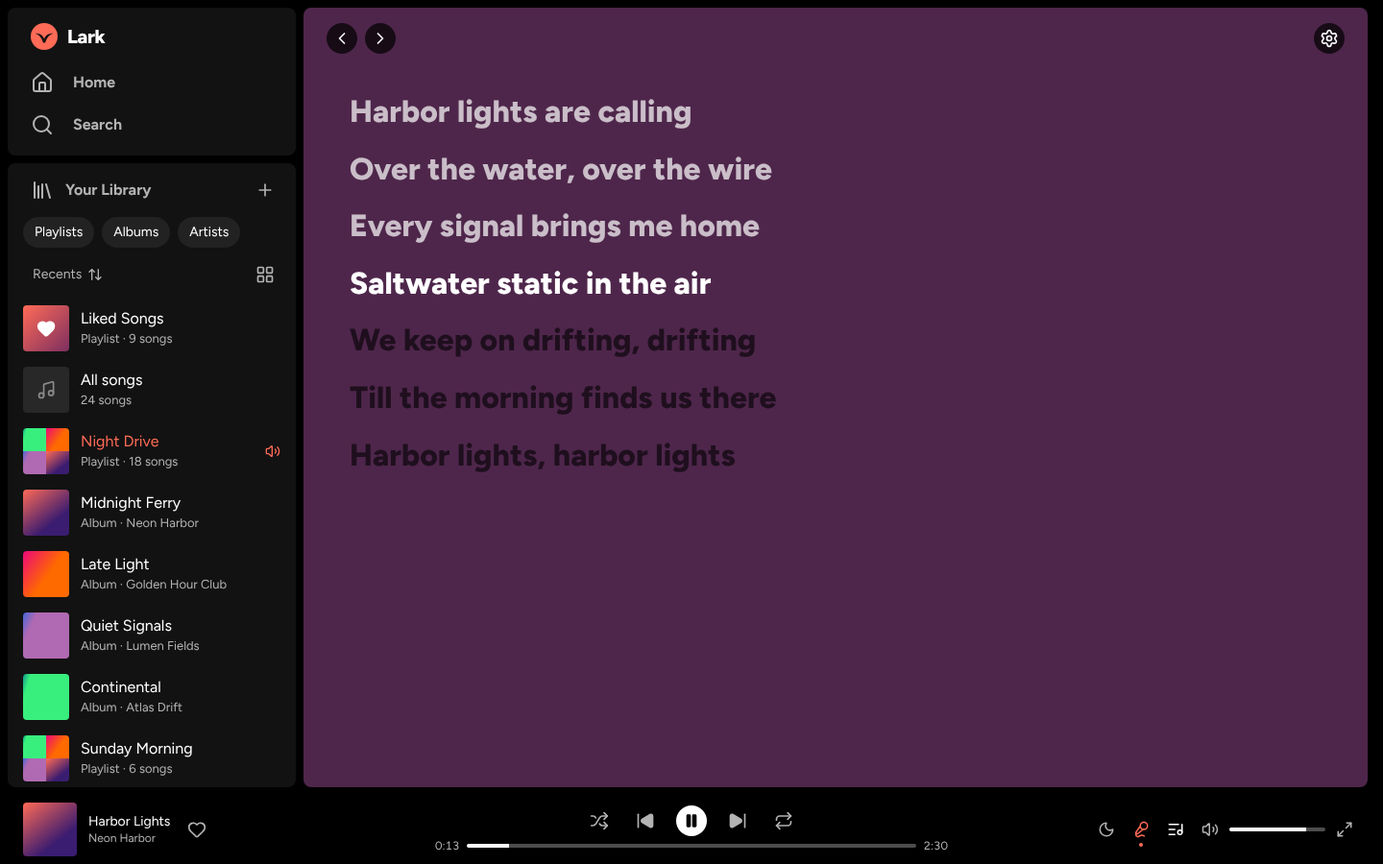
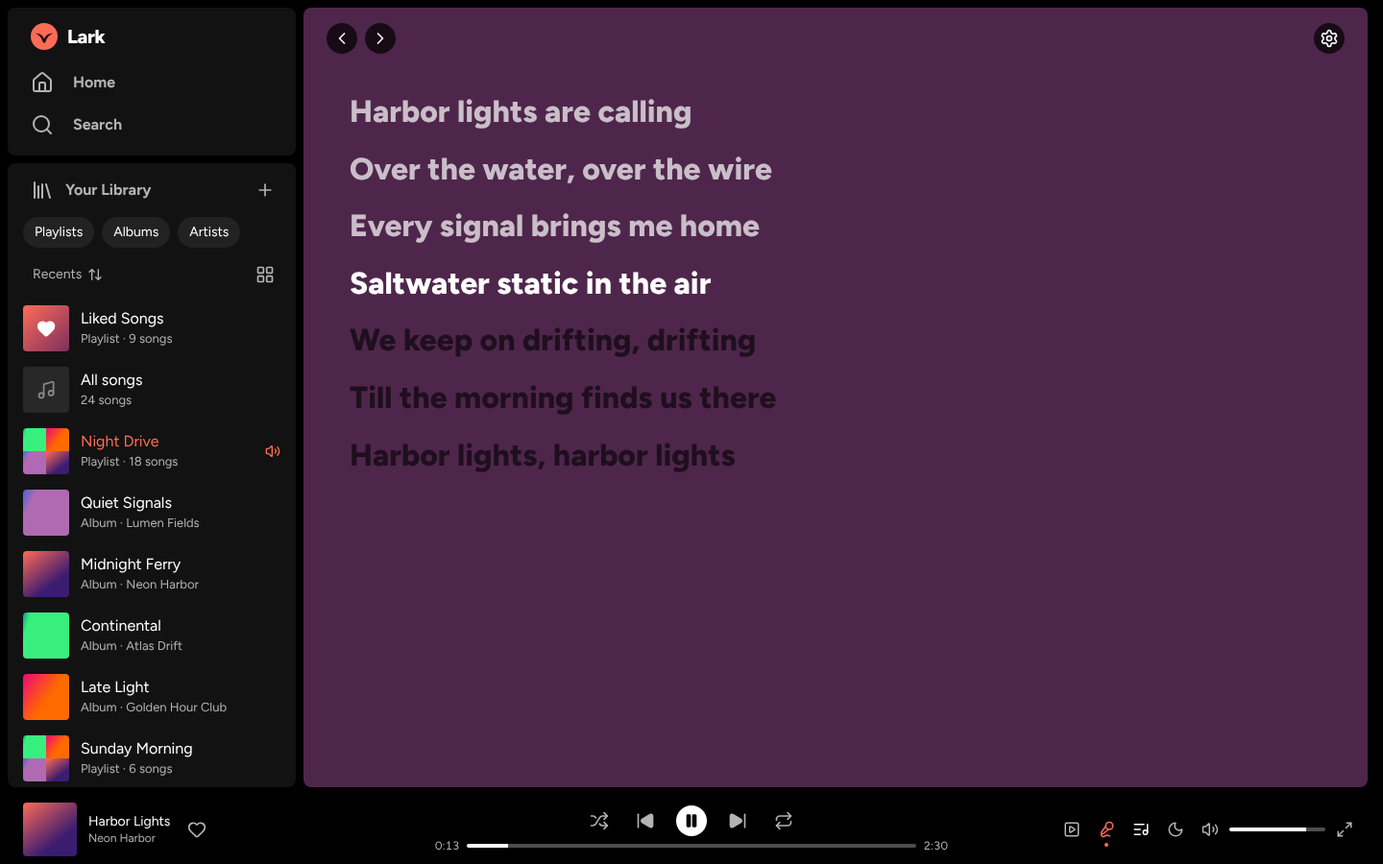
Spotify-style now-playing views; paste cover images
- Phone: full-screen player with the cover art filling the screen,
  small cover next to the title with a save (+/check) button, times
  under the seek bar, sleep timer and queue buttons, and a lyrics card
  peeking at the bottom.
- Computer: "Now playing view" panel on the right (context name, big
  cover, title/artist with save button, next in queue); it shares the
  right panel with the queue. The player-bar cover opens it.
- Edit dialogs: paste an image (Ctrl+V or "Paste image") to set a cover
  without the file picker; it is square-cropped from the centre.
- Tests for the panel and for pasting; screenshots updated.

Claude-Session: https://claude.ai/code/session_016covFTdUFWBo4vfXdR9J8w

Changed region(s): [[0.0, 0.56, 0.1562, 0.84], [0.8125, 0.9333, 0.8438, 0.9644]]

diff --git a/src/js/ui/nowplaying.js b/src/js/ui/nowplaying.js
@@ -16,10 +16,10 @@ const controlsHtml = () => `<div class="ctrls">${btn('shuffle', 'shuffle', 'Shuf
 
 export function playerBarHtml() {
   return `<footer class="pbar" id="pbar">
-    <div class="pb-left"><button class="pb-art" data-act="np-open" data-bind="cover" aria-label="Open now playing"></button>
+    <div class="pb-left"><button class="pb-art" data-act="npv" data-bind="cover" aria-label="Now playing view"></button>
       <div class="pb-meta"><a class="pb-t" data-bind="title"></a><div class="pb-a" data-bind="artist"></div></div>${btn('like-current', 'heart', 'Save to Liked Songs', 'like', 'icon-btn like')}</div>
     <div class="pb-center">${controlsHtml()}${seekHtml()}</div>
-    <div class="pb-right">${btn('sleep-menu', 'moon', 'Sleep timer', 'sleep')}${btn('lyrics', 'mic-vocal', 'Lyrics', 'lyrics-btn')}${btn('queue', 'list-music', 'Queue', 'queue-btn')}
+    <div class="pb-right">${btn('npv', 'square-play', 'Now playing view', 'npv-btn')}${btn('lyrics', 'mic-vocal', 'Lyrics', 'lyrics-btn')}${btn('queue', 'list-music', 'Queue', 'queue-btn')}${btn('sleep-menu', 'moon', 'Sleep timer', 'sleep')}
       ${btn('mute', 'volume-2', 'Mute', 'mute')}<input type="range" class="range vol" data-bind="vol" min="0" max="100" aria-label="Volume">${btn('np-open', 'maximize-2', 'Full screen')}</div>
   </footer>
   <div class="mini" id="mini" hidden><div class="mini-in"><div class="mini-art" data-bind="cover"></div>
@@ -42,6 +42,8 @@ function updateTrack() {
   each('artist', (el) => {
     el.innerHTML = !s ? '' : el.closest('.mini') ? esc(store.artistOf(s)) : `<a href="#/artist/${encodeURIComponent(store.artistKey(s.artist))}">${esc(store.artistOf(s))}</a>`;
   });
+  each('np-bg', (el) => { el.innerHTML = s?.coverId ? `<img src="${store.coverUrl(s.coverId)}" alt="">` : ''; });
+  each('np-lyrics', (el) => { const text = lyricsPreview(s); el.hidden = !text; el.querySelector('.lc-lines').textContent = text; });
   const mini = $('#mini');
   if (mini) mini.hidden = !s;
   document.body.classList.toggle('has-song', !!s);
@@ -54,6 +56,18 @@ function updateTrack() {
 export function updateLike() {
   const on = !!engine.song && store.isLiked(engine.song.id);
   each('like', (el) => { el.classList.toggle('on', on); el.setAttribute('aria-label', on ? 'Remove from Liked Songs' : 'Save to Liked Songs'); });
+  each('save', (el) => {
+    el.innerHTML = ic(on ? 'circle-check' : 'circle-plus');
+    el.classList.toggle('saved', on);
+    el.setAttribute('aria-label', on ? 'Remove from Liked Songs' : 'Save to Liked Songs');
+    el.title = el.getAttribute('aria-label');
+  });
+}
+/** First lines of a song's lyrics, for the lyrics card in the full-screen player. */
+function lyricsPreview(s) {
+  if (!s?.lyrics?.trim()) return '';
+  const lines = isSynced(s.lyrics) ? parseLrc(s.lyrics).map((l) => l.text) : s.lyrics.split(/\r?\n/);
+  return lines.map((l) => l.trim()).filter(Boolean).slice(0, 2).join('\n');
 }
 function updatePlay() {
   const playing = !!engine.song && !engine.paused;
@@ -135,7 +149,9 @@ Object.assign(acts, {
   mute: () => { engine.setMuted(!engine.muted); saveVolume(); },
   'np-open': () => engine.song && openNowPlaying(),
   'np-close': () => popOverlay(),
-  queue: () => (isMobile() || $('.np') ? openSheet('queue') : toggleRight()),
+  npv: () => (isMobile() ? engine.song && openNowPlaying() : setPanel(panel === 'np' && !$('#right').hidden ? '' : 'np')),
+  'panel-close': () => setPanel(''),
+  queue: () => (isMobile() || $('.np') ? openSheet('queue') : setPanel(panel === 'queue' && !$('#right').hidden ? '' : 'queue')),
   lyrics: () => (isMobile() || $('.np') ? openSheet('lyrics') : go(location.hash === '#/lyrics' ? '#/' : '#/lyrics')),
   'sleep-menu': (el) => openMenu([
     ...(P.sleep ? [{ label: 'Turn off timer', icon: 'x', run: () => { P.setSleep(null); toast('Sleep timer off'); } }, '-'] : []),
@@ -152,14 +168,15 @@ Object.assign(acts, {
 function openNowPlaying() {
   const el = document.createElement('div');
   el.className = 'np';
-  const c = queue.context, from = c && store.contextName(c);
-  el.innerHTML = `<div class="np-bg"></div><div class="np-in">
+  const c = queue.context, from = c ? c.name || store.contextName(c) : '';
+  el.innerHTML = `<div class="np-bg" data-bind="np-bg"></div><div class="np-in">
     <div class="np-head">${btn('np-close', isMobile() ? 'chevron-down' : 'minimize-2', 'Close')}
-      <button class="np-from" data-act="np-ctx">${from ? `<small>Playing from ${esc(c.type === 'search' ? 'search' : c.type === 'liked' || c.type === 'songs' ? 'your library' : c.type)}</small><b>${esc(from)}</b>` : ''}</button>${btn('np-menu', 'ellipsis', 'More options')}</div>
+      <button class="np-from" data-act="np-ctx">${esc(from)}</button>${btn('np-menu', 'ellipsis', 'More options')}</div>
     <div class="np-art" data-bind="cover"></div>
-    <div class="np-info"><div class="np-meta"><div class="np-t" data-bind="title"></div><div class="np-a" data-bind="artist"></div></div>${btn('like-current', 'heart', 'Save to Liked Songs', 'like', 'icon-btn like lg')}</div>
+    <div class="np-info"><div class="np-thumb" data-bind="cover"></div><div class="np-meta"><div class="np-t" data-bind="title"></div><div class="np-a" data-bind="artist"></div></div>${btn('like-current', 'circle-plus', 'Save to Liked Songs', 'save', 'icon-btn save')}</div>
     ${seekHtml()}${controlsHtml()}
-    <div class="np-extra">${btn('sleep-menu', 'moon', 'Sleep timer', 'sleep')}${btn('lyrics', 'mic-vocal', 'Lyrics')}${btn('queue', 'list-music', 'Queue')}</div></div>`;
+    <div class="np-extra">${btn('sleep-menu', 'moon', 'Sleep timer', 'sleep')}<span class="spacer"></span><span class="desk-only">${btn('lyrics', 'mic-vocal', 'Lyrics')}</span>${btn('queue', 'list-music', 'Queue')}</div>
+    <button class="np-lyrics" data-act="lyrics" data-bind="np-lyrics" hidden><b>Lyrics</b><span class="lc-lines"></span></button></div>`;
   document.body.append(el);
   requestAnimationFrame(() => el.classList.add('open'));
   refreshAll();
@@ -291,11 +308,36 @@ function bindQueue(root) {
     addEventListener('pointerup', up);
   });
 }
-function toggleRight() {
-  const r = $('#right');
-  r.hidden = !r.hidden;
-  document.body.classList.toggle('right-open', !r.hidden);
+let panel = (() => { try { return localStorage.getItem('lark-panel') ?? 'np'; } catch { return 'np'; } })();
+function setPanel(mode) {
+  panel = mode;
+  try { localStorage.setItem('lark-panel', mode); } catch {}
   refreshPanels();
+}
+/** Desktop "Now playing view": context name, big cover, title/artist with save button, next in queue. */
+function nowPlayingPanel() {
+  const s = engine.song, c = queue.context;
+  const nextId = queue.peekNext(false), n = nextId && store.lib.songs.get(nextId);
+  const head = `${btn('panel-close', 'panel-right-close', 'Hide Now playing view')}<h2 class="rh-t"><button data-act="np-ctx">${esc(c ? c.name || store.contextName(c) || store.title(s) : store.title(s))}</button></h2>${btn('np-menu', 'ellipsis', 'More options')}${btn('np-open', 'maximize-2', 'Full screen')}`;
+  const body = `<div class="npv"><div class="npv-art">${coverHtml(s.coverId ? [s.coverId] : [], { cls: 'xl' })}</div>
+    <div class="npv-info"><div class="npv-meta"><a class="npv-t" href="${s.album ? `#/album/${encodeURIComponent(store.albumKey(s))}` : '#/'}">${esc(store.title(s))}</a>
+      <div class="npv-a"><a href="#/artist/${encodeURIComponent(store.artistKey(s.artist))}">${esc(store.artistOf(s))}</a></div></div>${btn('like-current', 'circle-plus', 'Save to Liked Songs', 'save', 'icon-btn save')}</div>
+    ${n ? `<section class="npv-card"><div class="npv-card-h"><h3>Next in queue</h3><button class="link-btn" data-act="queue">Open queue</button></div>
+      <div class="npv-next">${coverHtml(n.coverId ? [n.coverId] : [], { cls: 'sm' })}<div class="q-meta"><div class="q-t">${esc(store.title(n))}</div><div class="q-a">${esc(store.artistOf(n))}</div></div></div></section>` : ''}</div>`;
+  return { head, body };
+}
+function renderRight() {
+  const r = $('#right');
+  if (!r) return;
+  const mode = panel === 'np' && !engine.song ? '' : panel;
+  r.hidden = !mode;
+  document.body.classList.toggle('right-open', !!mode);
+  if (!mode) return;
+  r.dataset.mode = mode;
+  const { head, body } = mode === 'np' ? nowPlayingPanel() : { head: `<h2 class="rh-t">Queue</h2>${btn('panel-close', 'x', 'Close queue')}`, body: queueHtml() };
+  r.querySelector('.right-head').innerHTML = head;
+  r.querySelector('.right-body').innerHTML = body;
+  if (mode === 'np') updateLike();
 }
 
 // ---------- lyrics ----------
@@ -357,14 +399,15 @@ function openSheet(kind) {
   pushOverlay(() => { view?.destroy(); sheet = null; el.classList.remove('open'); setTimeout(() => el.remove(), 250); });
 }
 export function refreshPanels() {
+  renderRight();
   const r = $('#right');
-  if (r && !r.hidden) r.querySelector('.right-body').innerHTML = queueHtml();
   if (sheet?.kind === 'queue') sheet.body.innerHTML = queueHtml();
   for (const v of lyricViews) if (!v.el.isConnected) lyricViews.delete(v); else if (v.song !== engine.song || v.song?.lyrics !== v.lyricsText) v.render();
   each('lyrics-btn', (el) => el.classList.toggle('on', location.hash === '#/lyrics'));
-  each('queue-btn', (el) => el.classList.toggle('on', !r?.hidden));
+  each('queue-btn', (el) => el.classList.toggle('on', !!r && !r.hidden && r.dataset.mode === 'queue'));
+  each('npv-btn', (el) => el.classList.toggle('on', !!r && !r.hidden && r.dataset.mode === 'np'));
 }
 export function rightPanelHtml() {
-  return `<aside class="right panel" id="right" hidden><div class="right-head"><h2>Queue</h2>${btn('queue', 'x', 'Close queue')}</div><div class="right-body"></div></aside>`;
+  return `<aside class="right panel" id="right" hidden><div class="right-head"></div><div class="right-body"></div></aside>`;
 }
 export function bindRight() { bindQueue($('#right .right-body')); }

diff --git a/src/styles.css b/src/styles.css
@@ -46,7 +46,7 @@ img { display: block; }
 .nav .ic { width: 24px; height: 24px; }
 .side-lib { flex: 1; overflow-y: auto; min-height: 0; }
 .main { overflow-y: auto; position: relative; min-width: 0; overscroll-behavior: contain; }
-.right { width: 340px; overflow-y: auto; grid-row: 1; grid-column: 3; }
+.right { width: 360px; overflow-y: auto; grid-row: 1; grid-column: 3; }
 .pbar { grid-column: 1 / -1; display: grid; grid-template-columns: minmax(180px, 30%) minmax(0, 40%) minmax(180px, 30%); align-items: center; padding: 0 8px; }
 .mini, .tabs { display: none; }
 .main::-webkit-scrollbar, .side-lib::-webkit-scrollbar, .right::-webkit-scrollbar { width: 12px; }
@@ -287,8 +287,27 @@ body:not(.has-song) .pb-left .like, body:not(.has-song) .pb-art { visibility: hi
 .pb-right .ic { width: 18px; height: 18px; }
 
 /* ---------- right panel: queue ---------- */
-.right-head { display: flex; justify-content: space-between; align-items: center; padding: 16px 16px 8px; position: sticky; top: 0; background: var(--surface); z-index: 2; }
-.right-head h2 { font-size: 16px; }
+.right-head { display: flex; align-items: center; gap: 4px; padding: 12px 12px 8px; position: sticky; top: 0; background: var(--surface); z-index: 2; }
+.rh-t { flex: 1; min-width: 0; font-size: 16px; font-weight: 700; white-space: nowrap; overflow: hidden; text-overflow: ellipsis; padding-left: 4px; }
+.rh-t button { background: none; border: 0; padding: 0; font: inherit; color: inherit; cursor: pointer; max-width: 100%; overflow: hidden; text-overflow: ellipsis; white-space: nowrap; }
+.rh-t button:hover { text-decoration: underline; }
+/* Now playing view (desktop right panel) */
+.npv { padding: 4px 16px 24px; }
+.npv-art .cover { border-radius: 8px; box-shadow: 0 8px 24px #0006; }
+.npv-info { display: flex; align-items: center; gap: 12px; margin: 18px 0 8px; }
+.npv-meta { flex: 1; min-width: 0; }
+.npv-t { display: block; font-size: 24px; font-weight: 800; letter-spacing: -0.01em; white-space: nowrap; overflow: hidden; text-overflow: ellipsis; }
+.npv-a { color: var(--sub); font-size: 15px; white-space: nowrap; overflow: hidden; text-overflow: ellipsis; }
+.npv-a a:hover { color: var(--text); }
+.npv-card { background: #1f1f1f; border-radius: 8px; padding: 16px; margin-top: 18px; }
+.npv-card-h { display: flex; justify-content: space-between; align-items: center; margin-bottom: 12px; }
+.npv-card h3 { font-size: 16px; }
+.npv-next { display: flex; align-items: center; gap: 12px; }
+/* Save to Liked Songs: (+) / filled check, as in the now-playing views */
+.save .ic { width: 26px; height: 26px; }
+.save.saved, .save.saved:hover { color: var(--accent); }
+.save.saved .ic circle { fill: var(--accent); stroke: var(--accent); }
+.save.saved .ic path { stroke: #000; }
 .q-sec { padding: 0 8px 16px; }
 .q-sec h3 { font-size: 16px; padding: 8px; }
 .q-h { display: flex; justify-content: space-between; align-items: center; padding-right: 8px; }
@@ -304,18 +323,22 @@ body:not(.has-song) .pb-left .like, body:not(.has-song) .pb-art { visibility: hi
 /* ---------- full-screen player, sheets, lyrics ---------- */
 .np, .sheet-full { --c: #333; position: fixed; inset: 0; z-index: 60; background: var(--surface); transform: translateY(100%); transition: transform .28s cubic-bezier(.2, .8, .2, 1); overflow: hidden; }
 .np.open, .sheet-full.open { transform: none; }
-.np-bg { position: absolute; inset: 0; background: linear-gradient(color-mix(in srgb, var(--c) 85%, #000), #121212 90%); }
+.np-bg { position: absolute; inset: 0; overflow: hidden; background: linear-gradient(color-mix(in srgb, var(--c) 85%, #000), #121212 90%); }
+.np-bg img { position: absolute; inset: 0; width: 100%; height: 100%; object-fit: cover; }
+.np-bg::after { content: ''; position: absolute; inset: 0; background: linear-gradient(#00000099 0, #0000 20%, #0000 40%, #000000b3 64%, #000000f2 100%); }
 .np-in { position: relative; height: 100%; display: flex; flex-direction: column; gap: 14px; padding: calc(12px + env(safe-area-inset-top)) 24px calc(24px + env(safe-area-inset-bottom)); max-width: 560px; margin: 0 auto; touch-action: none; }
 .np-head { display: flex; align-items: center; justify-content: space-between; gap: 8px; }
-.np-from { background: none; border: 0; text-align: center; cursor: pointer; min-width: 0; display: grid; }
-.np-from small { text-transform: uppercase; letter-spacing: .1em; font-size: 11px; color: #ffffffb3; }
-.np-from b { font-size: 14px; white-space: nowrap; overflow: hidden; text-overflow: ellipsis; }
+.np-head .icon-btn { color: #fff; }
+.np-from { background: none; border: 0; text-align: center; cursor: pointer; min-width: 0; font-weight: 700; font-size: 15px; white-space: nowrap; overflow: hidden; text-overflow: ellipsis; text-shadow: 0 1px 4px #0008; }
 .np-art { flex: 1; min-height: 0; display: grid; place-items: center; }
 .np-art .cover { width: min(100%, 58vh); box-shadow: 0 8px 40px #0009; }
+.np-thumb { display: none; }
 .np-info { display: flex; align-items: center; justify-content: space-between; gap: 12px; }
-.np-meta { min-width: 0; }
+.np-meta { min-width: 0; flex: 1; }
 .np-t { font-size: 22px; font-weight: 800; white-space: nowrap; overflow: hidden; text-overflow: ellipsis; }
 .np-a { color: #ffffffb3; white-space: nowrap; overflow: hidden; text-overflow: ellipsis; }
+.np .save { color: #fff; width: 40px; height: 40px; }
+.np .save .ic { width: 28px; height: 28px; }
 .np .seek .t { color: #ffffffb3; }
 .np .ctrls { justify-content: space-between; gap: 0; }
 .np .ctrls .icon-btn { width: 48px; height: 48px; color: #fff; }
@@ -323,8 +346,12 @@ body:not(.has-song) .pb-left .like, body:not(.has-song) .pb-art { visibility: hi
 .np .ctrls .ic { width: 28px; height: 28px; }
 .np .play-btn { width: 64px; height: 64px; }
 .np .play-btn .ic { width: 28px; height: 28px; }
-.np-extra { display: flex; justify-content: space-between; }
+.np-extra { display: flex; align-items: center; }
 .np-extra .icon-btn { color: #ffffffcc; }
+.np-lyrics { display: none; }
+@media (min-width: 768px) {
+  .np-bg img { filter: blur(48px) brightness(.55); transform: scale(1.3); }
+}
 .sheet-full { display: flex; flex-direction: column; z-index: 70; background: color-mix(in srgb, var(--c) 55%, #121212); }
 .sheet-queue { background: var(--surface); }
 .sheet-head { display: grid; grid-template-columns: 40px 1fr 40px; align-items: center; padding: calc(10px + env(safe-area-inset-top)) 12px 10px; text-align: center; }
@@ -503,6 +530,26 @@ body:not(.has-song) .pb-left .like, body:not(.has-song) .pb-art { visibility: hi
   .set-row { flex-wrap: wrap; }
   .slider-val { width: 100%; }
   .lyr-page { padding: 24px 20px 48px; min-height: calc(100dvh - 130px); }
+  .np-in { gap: 12px; padding: calc(8px + env(safe-area-inset-top)) 16px 0; }
+  .np-head { margin-bottom: auto; }
+  .np-art, .np-extra .desk-only { display: none; }
+  .np-thumb { display: block; flex: none; }
+  .np-thumb .cover { width: 48px; height: 48px; }
+  .np-t { font-size: 18px; }
+  .np-a { font-size: 15px; }
+  .np .seek { display: grid; grid-template-columns: 1fr 1fr; row-gap: 0; }
+  .np .seek .range { grid-column: 1 / -1; grid-row: 1; }
+  .np .seek .t { grid-row: 2; min-width: 0; font-size: 11px; }
+  .np .seek .t:first-child { text-align: left; }
+  .np .seek .t:last-child { grid-column: 2; text-align: right; }
+  .np .seek .range::-webkit-slider-thumb { opacity: 1; }
+  .np .ctrls { margin-top: -4px; }
+  .np-extra { padding: 0 4px; }
+  .np-lyrics { display: block; flex: none; margin: 6px -4px 0; height: calc(78px + env(safe-area-inset-bottom)); overflow: hidden; border: 0; border-radius: 12px 12px 0 0; padding: 14px 16px; text-align: left; color: #fff; cursor: pointer; background: color-mix(in srgb, var(--c) 80%, #000); }
+  .np-lyrics[hidden] { display: none; }
+  .np-lyrics b { display: block; font-size: 15px; }
+  .np-lyrics .lc-lines { display: block; margin-top: 6px; font-size: 18px; font-weight: 700; white-space: pre-line; }
+  .np-in:not(:has(.np-lyrics:not([hidden]))) { padding-bottom: calc(20px + env(safe-area-inset-bottom)); }
   .toast { bottom: calc(132px + env(safe-area-inset-bottom)); }
   .selbar { bottom: calc(132px + env(safe-area-inset-bottom)); max-width: calc(100vw - 16px); }
   .import-card { left: 8px; right: 8px; width: auto; bottom: calc(132px + env(safe-area-inset-bottom)); }

diff --git a/src/js/ui/dialogs.js b/src/js/ui/dialogs.js
@@ -1,7 +1,7 @@
 // Edit dialogs: song details, bulk edit, playlist details, cover upload/crop, reuse an existing cover.
-import { dominantColor } from '../color.js';
+import { dominantColor, makeCoverBlob } from '../color.js';
 import * as store from '../store.js';
-import { esc } from '../util.js';
+import { esc, isTouch } from '../util.js';
 import { coverHtml, openDialog, toast } from './common.js';
 import { ic } from './icons.js';
 
@@ -10,8 +10,10 @@ function coverField(previewIds, { keep = false, removeLabel = 'Remove' } = {}) {
   const state = { value: undefined }; // undefined = unchanged, null = removed, string = cover id
   const html = `<div class="cover-field"><div class="cf-preview">${coverHtml(previewIds, { cls: 'lg' })}</div>
     <div class="cf-btns"><label class="btn small">${ic('upload')}<span>Upload image</span><input type="file" accept="image/*" hidden></label>
+    <button type="button" class="btn small" data-cf="paste">${ic('clipboard-paste')}<span>Paste image</span></button>
     <button type="button" class="btn small" data-cf="pick">${ic('image')}<span>Use another cover</span></button>
     <button type="button" class="btn small" data-cf="remove">${ic('trash-2')}<span>${removeLabel}</span></button>
+    ${isTouch() ? '' : '<div class="cf-note">Or copy an image and press Ctrl+V.</div>'}
     ${keep ? '<div class="cf-note">Leave unchanged to keep each song\'s cover.</div>' : ''}</div></div>`;
   const mount = (root, fallback = () => []) => {
     const prev = root.querySelector('.cf-preview');
@@ -24,6 +26,36 @@ function coverField(previewIds, { keep = false, removeLabel = 'Remove' } = {}) {
       if (id) { state.value = id; show(); }
     };
     root.querySelector('[data-cf=pick]').onclick = async () => { const id = await pickCover(); if (id) { state.value = id; show(); } };
+    // Paste: the image is square-cropped from the centre and used straight away.
+    const useImage = (blob) => (state.pending = (async () => {
+      try {
+        const made = await makeCoverBlob(blob);
+        const id = await store.addCover(made.blob);
+        await store.setCoverColor(id, made.color);
+        state.value = id;
+        show();
+      } catch { toast("That image can't be used"); }
+    })());
+    root.querySelector('[data-cf=paste]').onclick = async () => {
+      if (!navigator.clipboard?.read) return toast('Copy an image, then press Ctrl+V here');
+      try {
+        for (const item of await navigator.clipboard.read()) {
+          const type = item.types.find((t) => t.startsWith('image/'));
+          if (type) return useImage(await item.getType(type));
+        }
+        toast('No image on the clipboard. Copy an image first.');
+      } catch { toast('Allow clipboard access to paste images'); }
+    };
+    const onPaste = (e) => {
+      if (!root.isConnected) return document.removeEventListener('paste', onPaste);
+      const open = document.querySelectorAll('.dialog-wrap');
+      if (open[open.length - 1] !== root) return; // only the dialog on top
+      const file = [...(e.clipboardData?.files || [])].find((f) => f.type.startsWith('image/'));
+      if (!file) return; // plain text pastes into the fields as usual
+      e.preventDefault();
+      useImage(file);
+    };
+    document.addEventListener('paste', onPaste);
     root.querySelector('[data-cf=remove]').onclick = () => { state.value = null; show(); };
   };
   return { html, mount, state };
@@ -44,6 +76,7 @@ export function editSong(id) {
     actions: [{ label: 'Cancel' }, { label: 'Save', primary: true, run: async (r) => {
       const v = (n) => r.querySelector(`[name=${n}]`).value.trim();
       const patch = { title: v('title') || s.name, artist: v('artist'), album: v('album'), lyrics: r.querySelector('[name=lyrics]').value };
+      await cf.state.pending; // a pasted image still being processed
       if (cf.state.value !== undefined) patch.coverId = cf.state.value;
       await store.updateSongs([id], patch);
       toast('Saved');
@@ -67,6 +100,7 @@ export function bulkEdit(ids) {
     actions: [{ label: 'Cancel' }, { label: 'Save', primary: true, run: async (r) => {
       const patch = {};
       for (const k of ['artist', 'album', 'albumArtist']) { const v = r.querySelector(`[name=${k}]`).value.trim(); if (v) patch[k] = v; }
+      await cf.state.pending; // a pasted image still being processed
       if (cf.state.value !== undefined) patch.coverId = cf.state.value;
       await store.updateSongs(songs.map((s) => s.id), patch);
       toast(`Updated ${songs.length} songs`);
@@ -87,6 +121,7 @@ export function editPlaylist(id) {
     onMount: (r) => cf.mount(r, auto),
     actions: [{ label: 'Cancel' }, { label: 'Save', primary: true, run: async (r) => {
       const patch = { name: r.querySelector('[name=name]').value.trim() || p.name, description: r.querySelector('[name=description]').value.trim() };
+      await cf.state.pending; // a pasted image still being processed
       if (cf.state.value !== undefined) patch.coverId = cf.state.value;
       await store.updatePlaylist(id, patch);
     } }],

diff --git a/src/js/ui/icons.js b/src/js/ui/icons.js
@@ -46,7 +46,17 @@ import listPlus from 'lucide-static/icons/list-plus.svg';
 import listStart from 'lucide-static/icons/list-start.svg';
 import arrowUpDown from 'lucide-static/icons/arrow-up-down.svg';
 import folderInput from 'lucide-static/icons/folder-input.svg';
+import squarePlay from 'lucide-static/icons/square-play.svg';
+import panelRightClose from 'lucide-static/icons/panel-right-close.svg';
+import circlePlus from 'lucide-static/icons/circle-plus.svg';
+import circleCheck from 'lucide-static/icons/circle-check.svg';
+import clipboardPaste from 'lucide-static/icons/clipboard-paste.svg';
 const SVG = {
+  'square-play': squarePlay,
+  'panel-right-close': panelRightClose,
+  'circle-plus': circlePlus,
+  'circle-check': circleCheck,
+  'clipboard-paste': clipboardPaste,
   'play': play,
   'pause': pause,
   'skip-back': skipBack,

diff --git a/README.md b/README.md
@@ -17,7 +17,7 @@ More in [docs/screenshots](docs/screenshots).
 
 - **Add music** by file picker, drag and drop, or a whole folder (computer). MP3 plus whatever the browser plays: M4A/AAC, FLAC, OGG, Opus, WAV. Tags are read: title, artist, album, album artist, track, year, genre, cover art, lyrics. A matching `.lrc` file gives synced lyrics. Files without tags use the name (`Artist - Title.mp3`). Duplicates (same file content) are skipped. Imports run in the background with a progress bar.
 - **Library**: Liked Songs, All songs, Recently played, automatic Albums and Artists pages from the tags, playlists with folders and pinning, "Your Library" with filters, sorting and list/grid view, and typo-tolerant search.
-- **Editing**: song title, artist, album, cover (upload and crop, or reuse another cover) and lyrics; bulk edit of several songs; playlist name, description and cover (default: a 4-cover mosaic). Your original files are never changed.
+- **Editing**: song title, artist, album, cover (paste an image with Ctrl+V or "Paste image", upload and crop, or reuse another cover) and lyrics; bulk edit of several songs; playlist name, description and cover (default: a 4-cover mosaic). Your original files are never changed.
 - **Playback**: shuffle (every song once before repeats), repeat off/all/one, queue ("Next in queue" before "Next from: …"; play next, add, reorder, remove, clear), previous restarts the song after 3 s, crossfade 0–12 s, near-gapless playback, volume normalisation (ReplayGain tags, otherwise measured), a 6-band equaliser with presets, a sleep timer (minutes or end of song), and synced lyrics. Lark remembers the song, position and queue after closing.
 - **Controls**: lock screen, notification, Bluetooth/headphone buttons and keyboard media keys (Media Session), plus keyboard shortcuts on computers (listed in Settings).
 - **Export / import**: one `.zip` with everything (songs as-is, covers, edits, playlists, likes, history, settings). It is written as a stream, so it needs no extra memory or disk space, and it supports libraries over 4 GB (ZIP64). Import replaces or merges.
@@ -78,10 +78,11 @@ What the tests check:
 | --- | --- |
 | `import.spec.mjs` | Tagged and untagged MP3s, covers, embedded and `.lrc` lyrics, duplicate skipping; 1,000 files import with progress while the app stays responsive |
 | `playback.spec.mjs` | Repeat cycle, shuffle (no repeats until all played), queue order and editing, previous, near-gapless hand-over, crossfade overlap, sleep timer, resume after reload |
-| `edits.spec.mjs` | Song edits, cover upload and crop, bulk edit, likes, playlist create/rename/cover/add/reorder, folders, pin, duplicate, all surviving a reload |
+| `edits.spec.mjs` | Song edits, cover upload and crop, cover paste, bulk edit, likes, playlist create/rename/cover/add/reorder, folders, pin, duplicate, all surviving a reload |
 | `export-import.spec.mjs` | Export → clear all storage → import gives back the exact same library (including a library over 1 GB); merge doesn't duplicate |
 | `zip64.spec.mjs` | A zip over 4 GB is written as ZIP64 by client-zip and read back by Lark's importer |
 | `offline.spec.mjs` | Works with the network off after the first visit; passes Chrome's installability checks; an app update keeps the library |
+| `playback.spec.mjs` (panel) | The desktop "Now playing view" panel follows the current song and switches with the queue |
 | `phone.spec.mjs` | Phone layout: tabs, mini-player swipe to skip, swipe up/down for the full player, bottom-sheet menus, Back closes sheets |
 
 ## How it's built
